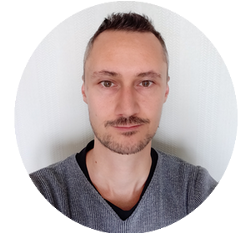
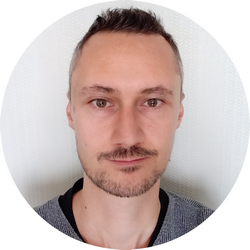
refonte responsive suite à soutenance P2

diff --git a/P2_Leclercq_Alexis/style.css b/P2_Leclercq_Alexis/style.css
@@ -38,6 +38,11 @@ aside {
     margin: 50px 0 30px 0;
 }
 
+header img {
+    border-radius: 50%;
+    border: 5px solid #DAAF12;
+}
+
 aside h2 {
     font-size: 1.4rem;
     background-color: #37474F;
@@ -127,10 +132,6 @@ hr {
     font-size: 1.1rem;
 }
 
-.espaces {
-    display: none;
-}
-
 main section p {
     font-size: 1rem;
     line-height: 140%;
@@ -174,7 +175,7 @@ main h2 {
 }
 
 
-/* Responsive pour smartphone */
+/* Responsive pour tablettes */
 
 @media all and (max-width: 1024px) {
     .container {
@@ -187,9 +188,6 @@ main h2 {
         text-align: center;
     }
     /* Main */
-    main {
-        padding: 10px;
-    }
     main header {
         text-align: center;
         padding: 0;
@@ -201,39 +199,16 @@ main h2 {
     #sous_titre_header {
         font-size: 1.3rem;
     }
-    .conteneur_details {
-        flex-direction: column;
-    }
     .conteneur_details li:nth-child(2) {
-        width: 100%;
-        margin-left: 0;
-        text-align: center;
-    }
-    .conteneur_details li:nth-child(3) {
-        width: 100%;
-        margin-left: 0;
-        text-align: center;
+        margin-left: 50px;
     }
     .année {
         display: flex;
         flex-direction: row;
-        justify-content: center;
         align-items: center;
         height: 2.5rem;
-        background-color: #37474F;
-        color: white;
-        border-radius: 15px;
         font-size: 1.1rem;
         margin-bottom: 1.5rem;
-    }
-    .année br {
-        display: none;
-    }
-    .espaces {
-        display: initial;
-    }
-    .puces {
-        display: none;
     }
     main section p {
         font-size: 1.2rem;
@@ -259,13 +234,48 @@ main h2 {
         width: 100%;
     }
     .recommandations li {
-        margin: 2rem 0 1rem 0;
+        margin-top: 2rem;
         padding: 20px;
-        border: 2px solid black;
-        border-radius: 30px;
     }
     main footer h4 {
         margin: 0 0 20px 0;
         text-decoration: underline;
+    }
+}
+
+
+/* Reponsive pour smartphones */
+
+@media only screen and (max-width: 767px) {
+    /* Main */
+    main {
+        padding: 10px;
+    }
+    main header h1 {
+        font-size: 2.2rem;
+    }
+    #sous_titre_header {
+        font-size: 1.1rem;
+    }
+    .conteneur_details li:nth-child(2) {
+        margin-left: 15px;
+        width: 27%;
+    }
+    .année {
+        align-items: flex-start;
+        font-size: 1.1rem;
+        margin-bottom: 1.5rem;
+    }
+    main section p {
+        font-size: 0.8rem;
+        margin-top: 0;
+    }
+    main section h1,
+    main footer h1 {
+        font-size: 1.2rem;
+    }
+    main h2 {
+        font-size: 1rem;
+        margin: 0 0 10px 0;
     }
 }

diff --git a/P2_Leclercq_Alexis/index.html b/P2_Leclercq_Alexis/index.html
@@ -75,7 +75,7 @@
                     <li class="couleur_fond puces"><i class="far fa-dot-circle"></i></li>
 
                     <li class="année">
-                        <p>2020 <br><span class="espaces">&nbsp; &nbsp;</span> Niort</p>
+                        <p>2020 <br> Niort</p>
                     </li>
 
                     <li>
@@ -91,7 +91,7 @@
                     <li class="couleur_fond puces"><i class="fas fa-circle fa-xs"></i></li>
 
                     <li class="année">
-                        <p>2019 - 2020 <br><span class="espaces">&nbsp; &nbsp;</span> Ecole Alyra Paris</p>
+                        <p>2019 - 2020 <br> Ecole Alyra Paris</p>
                     </li>
 
                     <li>
@@ -107,7 +107,7 @@
                     <li class="couleur_fond puces"><i class="fas fa-circle fa-xs"></i></li>
 
                     <li class="année">
-                        <p>2007 - 2008 <br><span class="espaces">&nbsp; &nbsp;</span> La Rochelle</p>
+                        <p>2007 - 2008 <br> La Rochelle</p>
                     </li>
 
                     <li>
@@ -131,7 +131,7 @@
                     <li class="couleur_fond puces"><i class="far fa-dot-circle"></i></li>
 
                     <li class="année">
-                        <p>2018 - 3 mois <br><span class="espaces">&nbsp; &nbsp;</span> La Crèche</p>
+                        <p>2018 - 3 mois <br> La Crèche</p>
                     </li>
 
                     <li>
@@ -147,7 +147,7 @@
                     <li class="couleur_fond puces"><i class="fas fa-circle fa-xs"></i></li>
 
                     <li class="année">
-                        <p>2015/2017 - 2 ans <br><span class="espaces">&nbsp; &nbsp;</span> Coulon</p>
+                        <p>2015/2017 - 2 ans <br> Coulon</p>
                     </li>
 
                     <li>
@@ -163,7 +163,7 @@
                     <li class="couleur_fond puces"><i class="fas fa-circle fa-xs"></i></li>
 
                     <li class="année">
-                        <p>2009/2014 - 5 ans <br><span class="espaces">&nbsp; &nbsp;</span> Niort/La Rochelle</p>
+                        <p>2009/2014 - 5 ans <br> Niort/La Rochelle</p>
                     </li>
 
                     <li>
